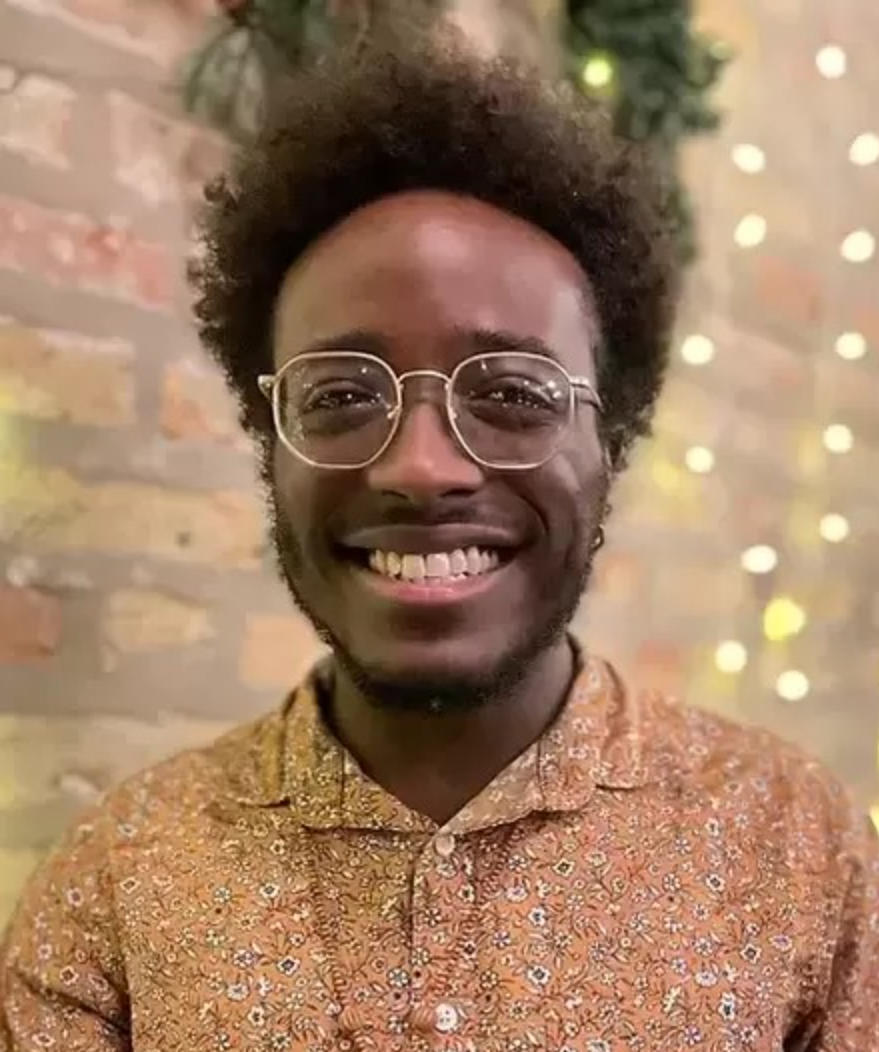
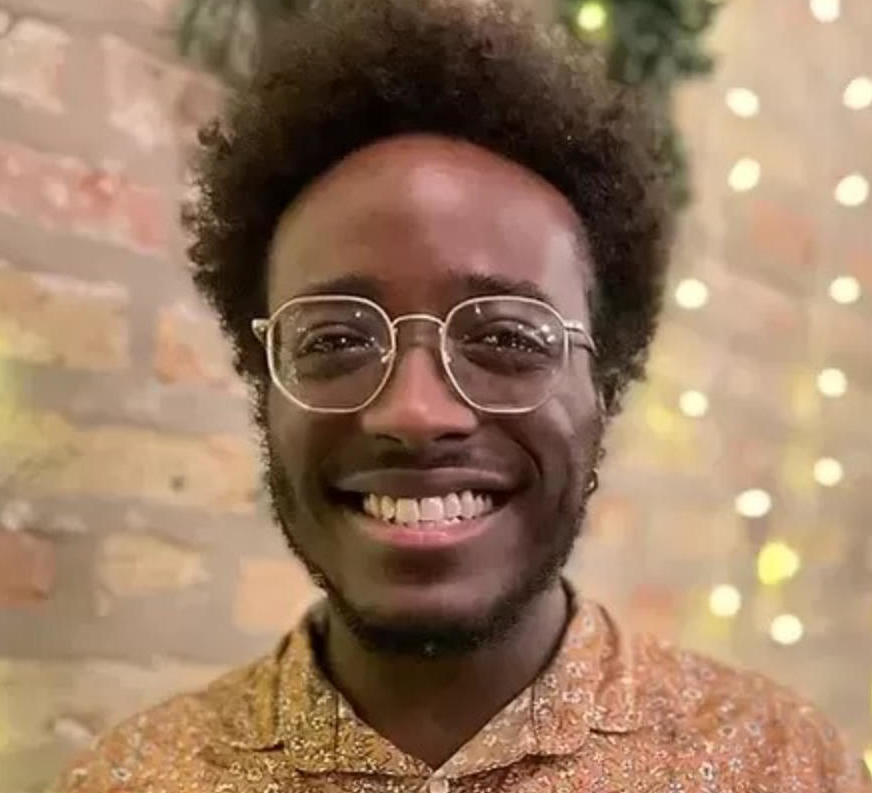
resize images, final details

diff --git a/app/page.tsx b/app/page.tsx
@@ -1,32 +1,13 @@
-// app/page.tsx
-import Link from 'next/link';
+// app/wisco-climate-table/page.tsx
+"use client";
 
-export default function HomePage() {
-  return (
-    <div className="flex flex-col items-center justify-center h-screen bg-[var(--gray-50,#f8fafb)] px-6">
-      <h1 className="text-4xl font-extrabold text-[var(--foreground,#111827)] tracking-tight m-0">
-        Wisconsin Climate Stories
-      </h1>
-      <p className="mt-2.5 mb-12 text-base text-[var(--gray-500,#6b7280)]">
-        Select a story collection to explore
-      </p>
+import MapAndDashboardWrapper from '@/components/MapAndDashboardWrapper';
 
-      <div className="flex gap-7 flex-wrap justify-center">
-        <Link
-          href="/demo-stories"
-          className="flex flex-col items-center justify-center gap-3.5 w-[260px] h-[180px] rounded-xl bg-white border border-[#f0f0f0] no-underline text-[var(--foreground,#111827)] shadow-[0_1px_3px_rgba(0,0,0,0.06),0_1px_2px_rgba(0,0,0,0.04)] transition-all duration-200 hover:-translate-y-1 hover:border-[var(--primary,#0d7377)] hover:shadow-[0_8px_25px_rgba(13,115,119,0.12)]"
-        >
-          <span className="text-5xl">🗺</span>
-          <span className="text-lg font-semibold text-center">Demo Stories</span>
-        </Link>
-        <Link
-          href="/wisco-climate-table"
-          className="flex flex-col items-center justify-center gap-3.5 w-[260px] h-[180px] rounded-xl bg-white border border-[#f0f0f0] no-underline text-[var(--foreground,#111827)] shadow-[0_1px_3px_rgba(0,0,0,0.06),0_1px_2px_rgba(0,0,0,0.04)] transition-all duration-200 hover:-translate-y-1 hover:border-red-600 hover:shadow-[0_8px_25px_rgba(220,38,38,0.12)]"
-        >
-          <span className="text-5xl">📊</span>
-          <span className="text-lg font-semibold text-center">Wisco Climate Table Stories</span>
-        </Link>
-      </div>
-    </div>
-  );
+export default function WiscoClimateTablePage() {
+    return (
+        <MapAndDashboardWrapper
+            title="Wisconsin Climate Table Stories"
+            titleClassName="text-red-600"
+        />
+    );
 }

diff --git a/app/menu/page.tsx b/app/menu/page.tsx
@@ -1,0 +1,32 @@
+// app/page.tsx
+import Link from 'next/link';
+
+export default function HomePage() {
+  return (
+    <div className="flex flex-col items-center justify-center h-screen bg-[var(--gray-50,#f8fafb)] px-6">
+      <h1 className="text-4xl font-extrabold text-[var(--foreground,#111827)] tracking-tight m-0">
+        Wisconsin Climate Stories
+      </h1>
+      <p className="mt-2.5 mb-12 text-base text-[var(--gray-500,#6b7280)]">
+        Select a story collection to explore
+      </p>
+
+      <div className="flex gap-7 flex-wrap justify-center">
+        <Link
+          href="/demo-stories"
+          className="flex flex-col items-center justify-center gap-3.5 w-[260px] h-[180px] rounded-xl bg-white border border-[#f0f0f0] no-underline text-[var(--foreground,#111827)] shadow-[0_1px_3px_rgba(0,0,0,0.06),0_1px_2px_rgba(0,0,0,0.04)] transition-all duration-200 hover:-translate-y-1 hover:border-[var(--primary,#0d7377)] hover:shadow-[0_8px_25px_rgba(13,115,119,0.12)]"
+        >
+          <span className="text-5xl">🗺</span>
+          <span className="text-lg font-semibold text-center">Demo Stories</span>
+        </Link>
+        <Link
+          href="/wisco-climate-table"
+          className="flex flex-col items-center justify-center gap-3.5 w-[260px] h-[180px] rounded-xl bg-white border border-[#f0f0f0] no-underline text-[var(--foreground,#111827)] shadow-[0_1px_3px_rgba(0,0,0,0.06),0_1px_2px_rgba(0,0,0,0.04)] transition-all duration-200 hover:-translate-y-1 hover:border-red-600 hover:shadow-[0_8px_25px_rgba(220,38,38,0.12)]"
+        >
+          <span className="text-5xl">📊</span>
+          <span className="text-lg font-semibold text-center">Wisco Climate Table Stories</span>
+        </Link>
+      </div>
+    </div>
+  );
+}

diff --git a/components/Map.tsx b/components/Map.tsx
@@ -73,8 +73,8 @@ interface MapComponentProps {
     selectedMdStory: MarkdownStory | null;
 }
 
-const INITIALCENTER: LatLngExpression = [43.06, -87.95]
-const INITIALZOOM: number = 11
+let INITIALCENTER: LatLngExpression = [43.06, -87.95]
+const INITIALZOOM: number = 12
 
 const MapComponent: React.FC<MapComponentProps> = ({
     featureCollection,
@@ -118,7 +118,7 @@ const MapComponent: React.FC<MapComponentProps> = ({
                     }
                 }).addTo(currentLeafletMap);
 
-                L.geoJSON(featureCollection, {
+                const storiesLayer = L.geoJSON(featureCollection, {
                     pointToLayer: function (feature, latlng) {
                         const circle = L.circle(latlng, {
                             radius: CIRCLE_RADIUS_METERS,
@@ -143,8 +143,10 @@ const MapComponent: React.FC<MapComponentProps> = ({
                         })
                         return circle
                     }
-                }).addTo(currentLeafletMap)
-
+                })
+                
+                storiesLayer.addTo(currentLeafletMap)
+                INITIALCENTER = storiesLayer.getBounds().getCenter()
                 // if (storyType === "wct") {
                 //     // WCT: 1-mile radius circles
                 //     stories.forEach(story => {

diff --git a/app/layout.tsx b/app/layout.tsx
@@ -1,4 +1,5 @@
 import type { Metadata } from "next";
+import { Suspense } from "react";
 import { Geist, Geist_Mono } from "next/font/google";
 import "./globals.css";
 
@@ -15,8 +16,8 @@ const geistMono = Geist_Mono({
 });
 
 export const metadata: Metadata = {
-  title: "Create Next App",
-  description: "Generated by create next app",
+  title: "Wisconsin Climate Table Stories",
+  description: "Map of stories from Wisconsin Climate Table",
 };
 
 export default function RootLayout({
@@ -30,7 +31,9 @@ export default function RootLayout({
         className={`${geistSans.variable} ${geistMono.variable} antialiased`}
       >
         <NuqsAdapter>
-          {children}
+          <Suspense>
+            {children}
+          </Suspense>
         </NuqsAdapter>
       </body>
     </html>

diff --git a/components/MapAndDashboardWrapper.tsx b/components/MapAndDashboardWrapper.tsx
@@ -32,7 +32,7 @@ const DynamicMapComponent = dynamic(() => import("./Map"), {
 import DashboardPanel from "./DashboardPanel"
 
 interface MapAndDashboardWrapperProps {
-    stories: AnyStoryFeature[];
+    stories?: AnyStoryFeature[];
     title?: string;
     titleClassName?: string;
     storyType?: "demo" | "wct";
@@ -66,7 +66,7 @@ const MapAndDashboardWrapper: React.FC<MapAndDashboardWrapperProps> = ({
     titleClassName,
     storyType = "demo",
 }) => {
-    const [stories] = useState<AnyStoryFeature[]>(initialStories);
+    const [stories] = useState<AnyStoryFeature[] | undefined>(initialStories);
     const [selectedStory, setSelectedStory] = useState<AnyStoryFeature | null>(null);
     const [selectedMdStory, setSelectedMdStory] = useState<MarkdownStory | null>(null);
 

diff --git a/app/demo-stories/page.tsx b/app/demo-stories/page.tsx
@@ -5,5 +5,5 @@ import MapAndDashboardWrapper from '@/components/MapAndDashboardWrapper';
 import { MOCK_STORIES } from '@/data/stories';
 
 export default function DemoStoriesPage() {
-    return <MapAndDashboardWrapper stories={MOCK_STORIES} />;
+    // return <MapAndDashboardWrapper stories={MOCK_STORIES} />;
 }

diff --git a/public/stories/amaya-v.md b/public/stories/amaya-v.md
@@ -2,7 +2,7 @@
 name: Amaya V.
 role: Resident
 neighborhood: The 53202 Neighborhood
-heroImage: img/amaya-v.png
+heroImage: img/amaya-v.jpg
 coords: -87.9015, 43.0454
 ---
 > Many landlords in Milwaukee do not accept energy assistance or discriminate against tenants who need it.

diff --git a/public/stories/joann-j.md b/public/stories/joann-j.md
@@ -2,7 +2,7 @@
 name: JoAnn J.
 role: Resident
 neighborhood: The 53210 Neighborhood
-heroImage: img/joann-j.png
+heroImage: img/joann-j.jpg
 coords: -87.9661, 43.0711
 ---
 > Now I'm worried WILL my electric and gas be turned OFF? Or will I be penalized? - I tried.

diff --git a/public/stories/joycelyn-t.md b/public/stories/joycelyn-t.md
@@ -2,7 +2,7 @@
 name: Joycelyn T.
 role: Resident
 neighborhood: The 53206 Neighborhood
-heroImage: img/joycelyn-t.png
+heroImage: img/joycelyn-t.jpg
 coords: -87.9348, 43.0768
 ---
 > Let your voice be heard; Speak up!

diff --git a/public/stories/garlandra-g.md b/public/stories/garlandra-g.md
@@ -2,7 +2,7 @@
 name: Garlandra G.
 role: Resident
 neighborhood: The 53218 Neighborhood
-heroImage: img/garlandra-g.png
+heroImage: img/garlandra-g.jpg
 coords: -87.9892, 43.1232
 ---
 

diff --git a/public/stories/debarla-w.md b/public/stories/debarla-w.md
@@ -2,7 +2,7 @@
 name: Debarla W.
 role: Resident
 neighborhood: The 53210 Neighborhood
-heroImage: img/debarla-w.png
+heroImage: img/debarla-w.jpg
 coords: -87.9691, 43.0691
 ---
 
